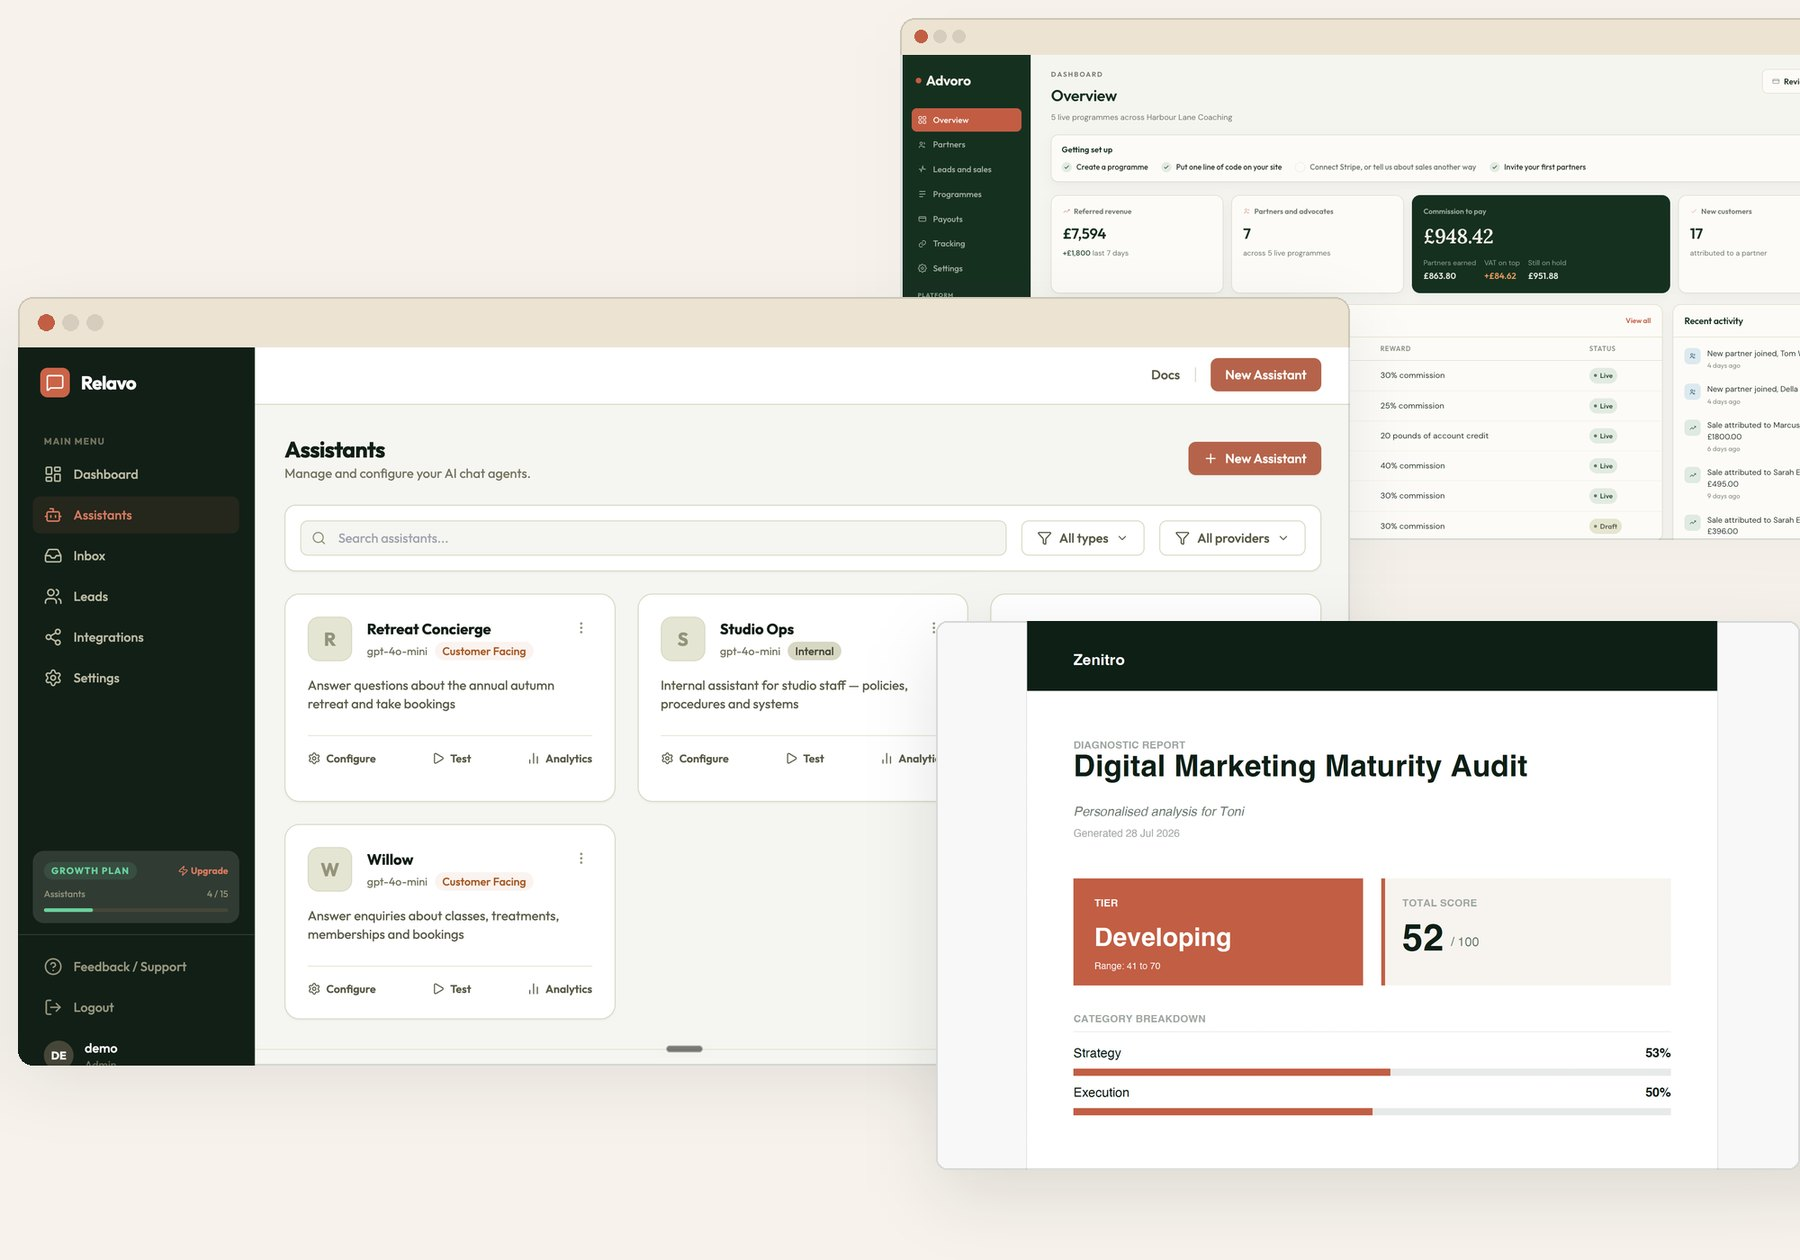
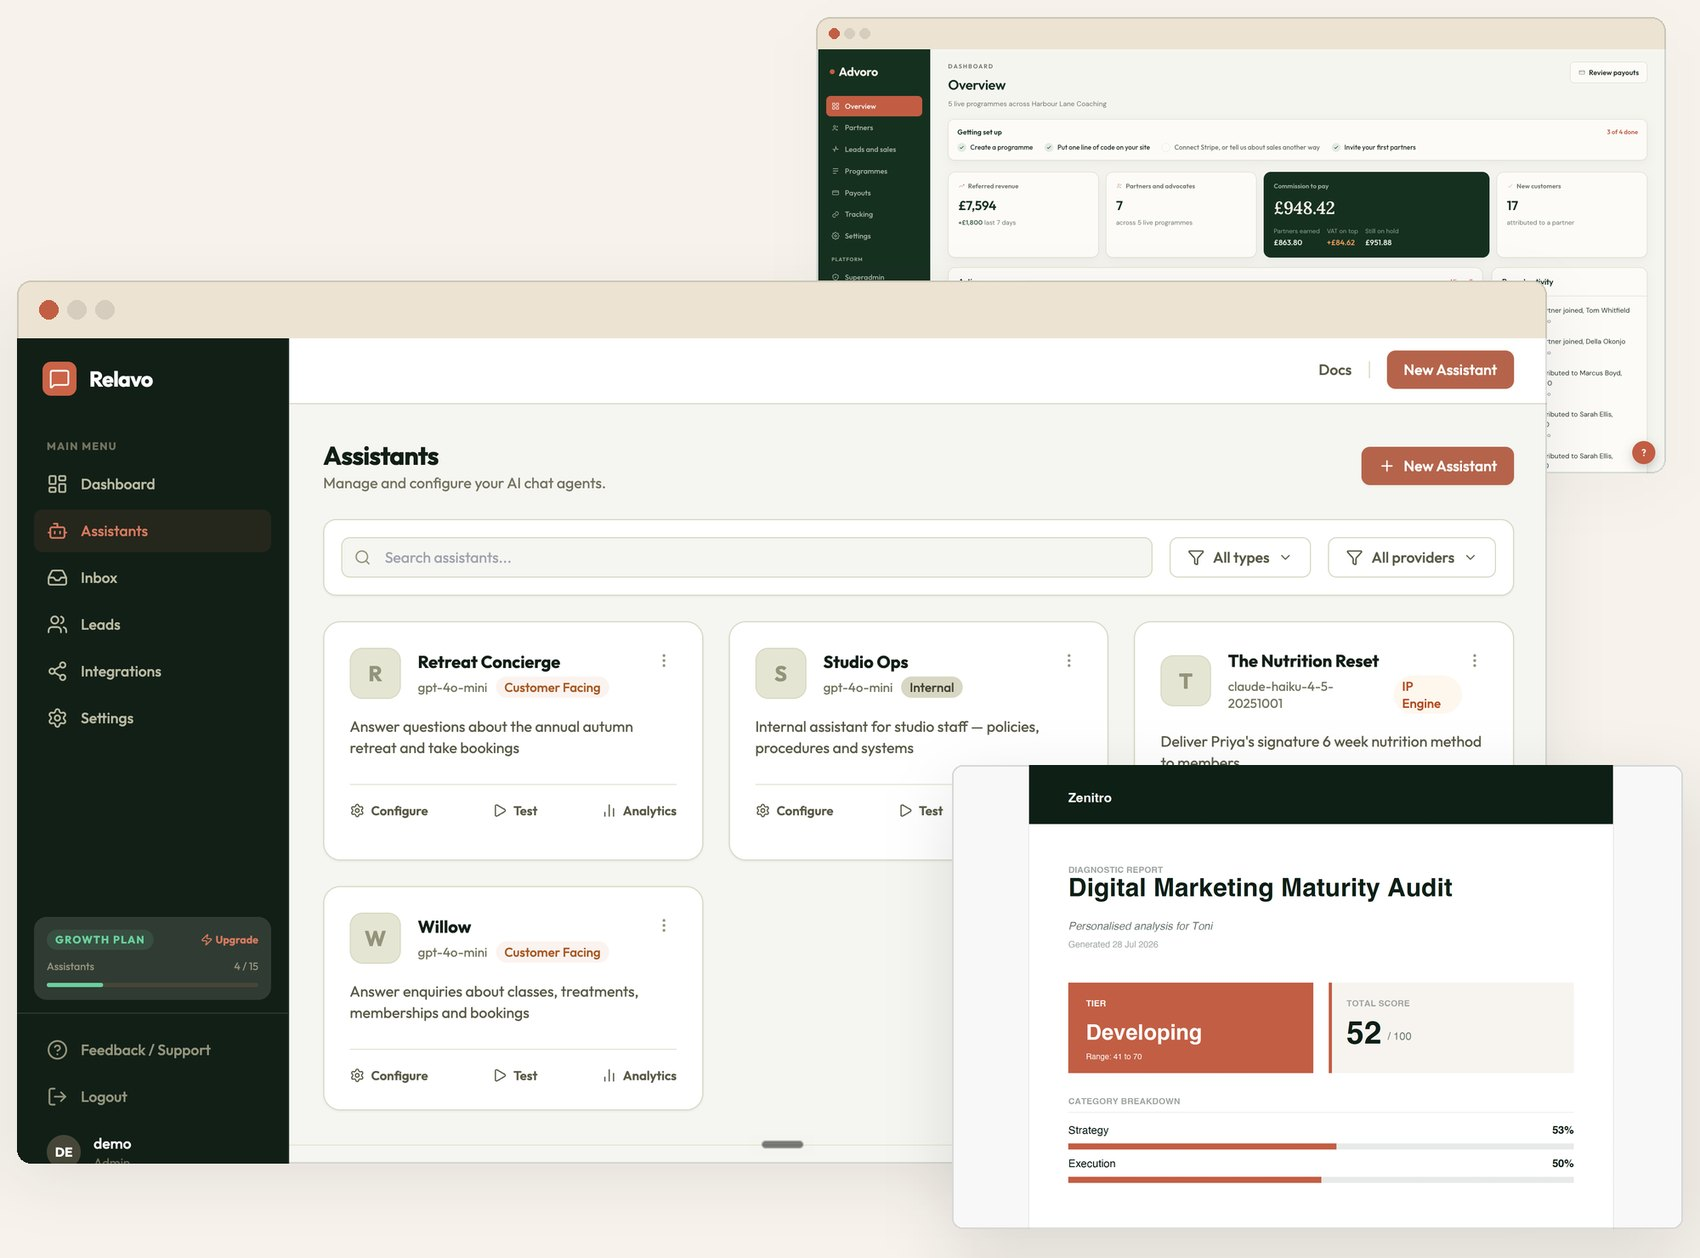
fix: contain the hero composition rather than bleeding it to the edge
The bleed was added to rescue a single screenshot rendering at 30% of
native. A composition that already has its own edges and shadows does
not need it, and running off the viewport now reads as accidental rather
than deliberate.

Containing costs 28% of the image width, so the composition is rebuilt
denser to claw back what it can: Relavo fills 90% of the frame rather
than 74%, nothing is flat-cut against the canvas edge any more, and the
canvas is squarer so it sits better against a tall text column. Net
effect at 1440 is Relavo at about 25% of native rather than the 21% a
straight contain would have given.

The 100vw bleed rule goes with it. overflow-x: clip stays on .aisb as a
general guard against any wide element raising a horizontal scrollbar,
with the comment updated since its original reason no longer applies.

diff --git a/src/styles/aisb.css b/src/styles/aisb.css
@@ -52,10 +52,9 @@ html:has(.aisb) body {
   line-height: 1.65;
   min-height: 100vh;
   -webkit-font-smoothing: antialiased;
-  /* The hero screenshot bleeds to the viewport edge using 100vw, which counts
-     the scrollbar, so it can overshoot by a few pixels and raise a horizontal
-     scrollbar. clip, not hidden: hidden would make this a scroll container and
-     break the sticky nav inside it. */
+  /* A blanket guard so no single wide element can raise a horizontal
+     scrollbar across the whole site. clip, not hidden: hidden would make this
+     a scroll container and break the sticky nav inside it. */
   overflow-x: clip;
 }
 
@@ -1939,25 +1938,6 @@ html:has(.aisb) {
   max-width: 18ch;
 }
 
-/* Above 1000px the hero screenshot breaks out of its column and runs to the
-   right edge of the viewport.
-   At 545px it was rendering at 30% of its native 1800px, which made the
-   assistant names illegible and defeated the point of showing a real product.
-   Bleeding it right buys roughly 35% more width without taking a single pixel
-   from the headline, which is the trade the column ratio could not make.
-   The right-hand corners and border are dropped because they now sit off the
-   edge of the screen, and a rounded corner half off-screen looks like a
-   mistake rather than a decision. */
-@media (min-width: 1000px) {
-  .aisb .hero.hero-media .browser,
-  .aisb .hero.hero-media .shot {
-    width: calc(100% + (100vw - min(100vw, 1120px)) / 2 + 32px);
-    max-width: none;
-    border-right: 0;
-    border-top-right-radius: 0;
-    border-bottom-right-radius: 0;
-  }
-}
 
 /* The hero composition already carries its own window frames and shadows, so
    the default .shot frame would wrap a frame around frames. */
